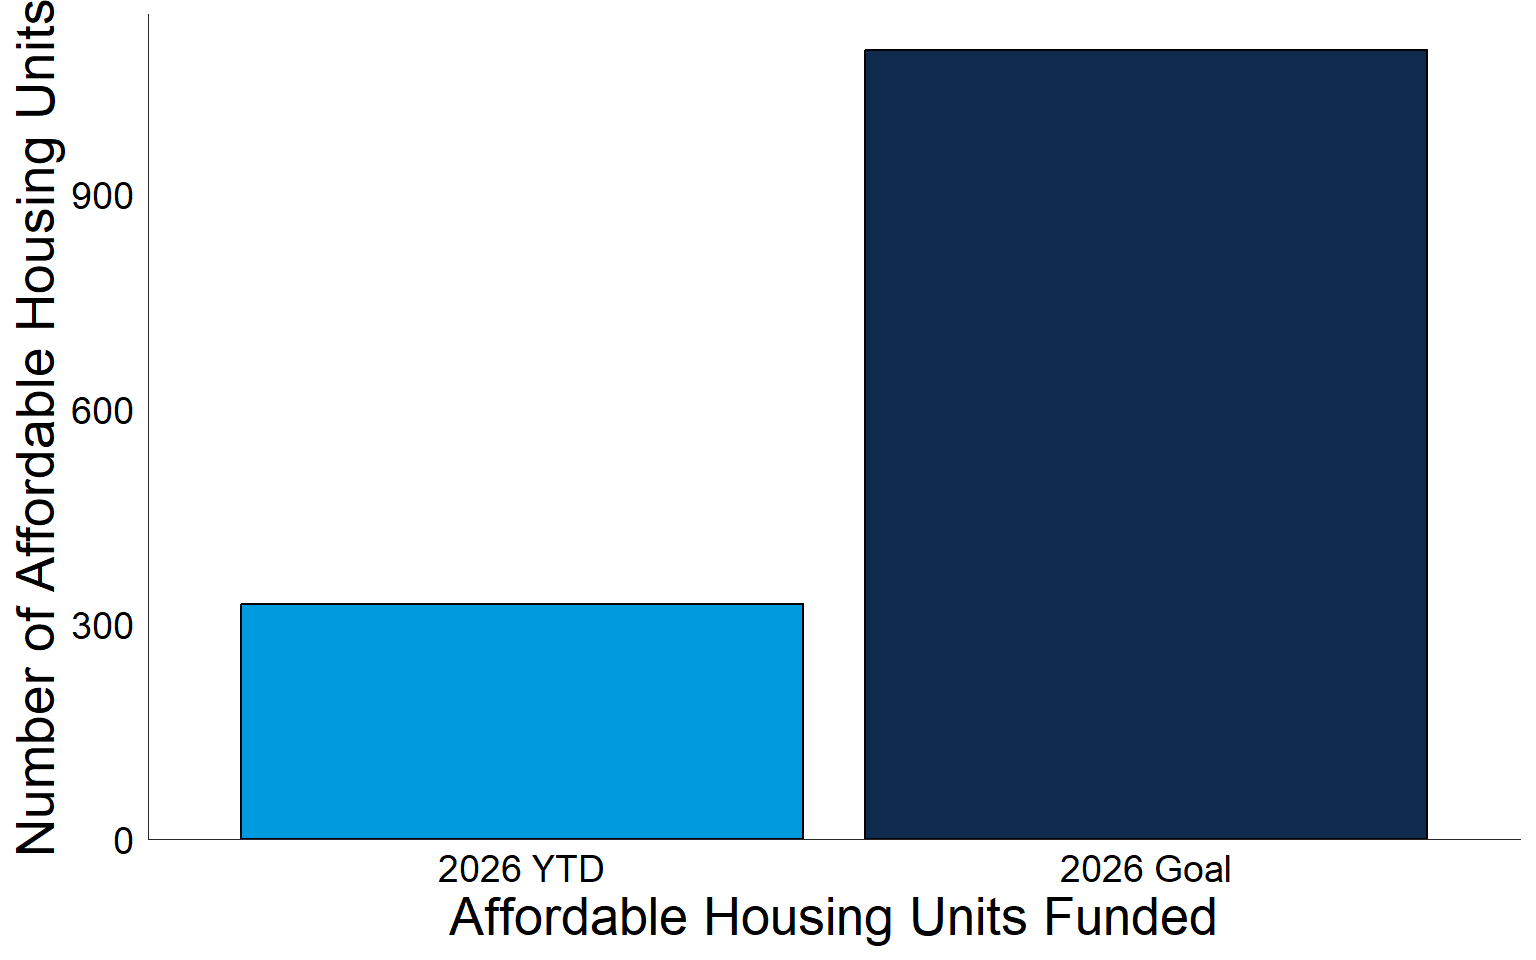
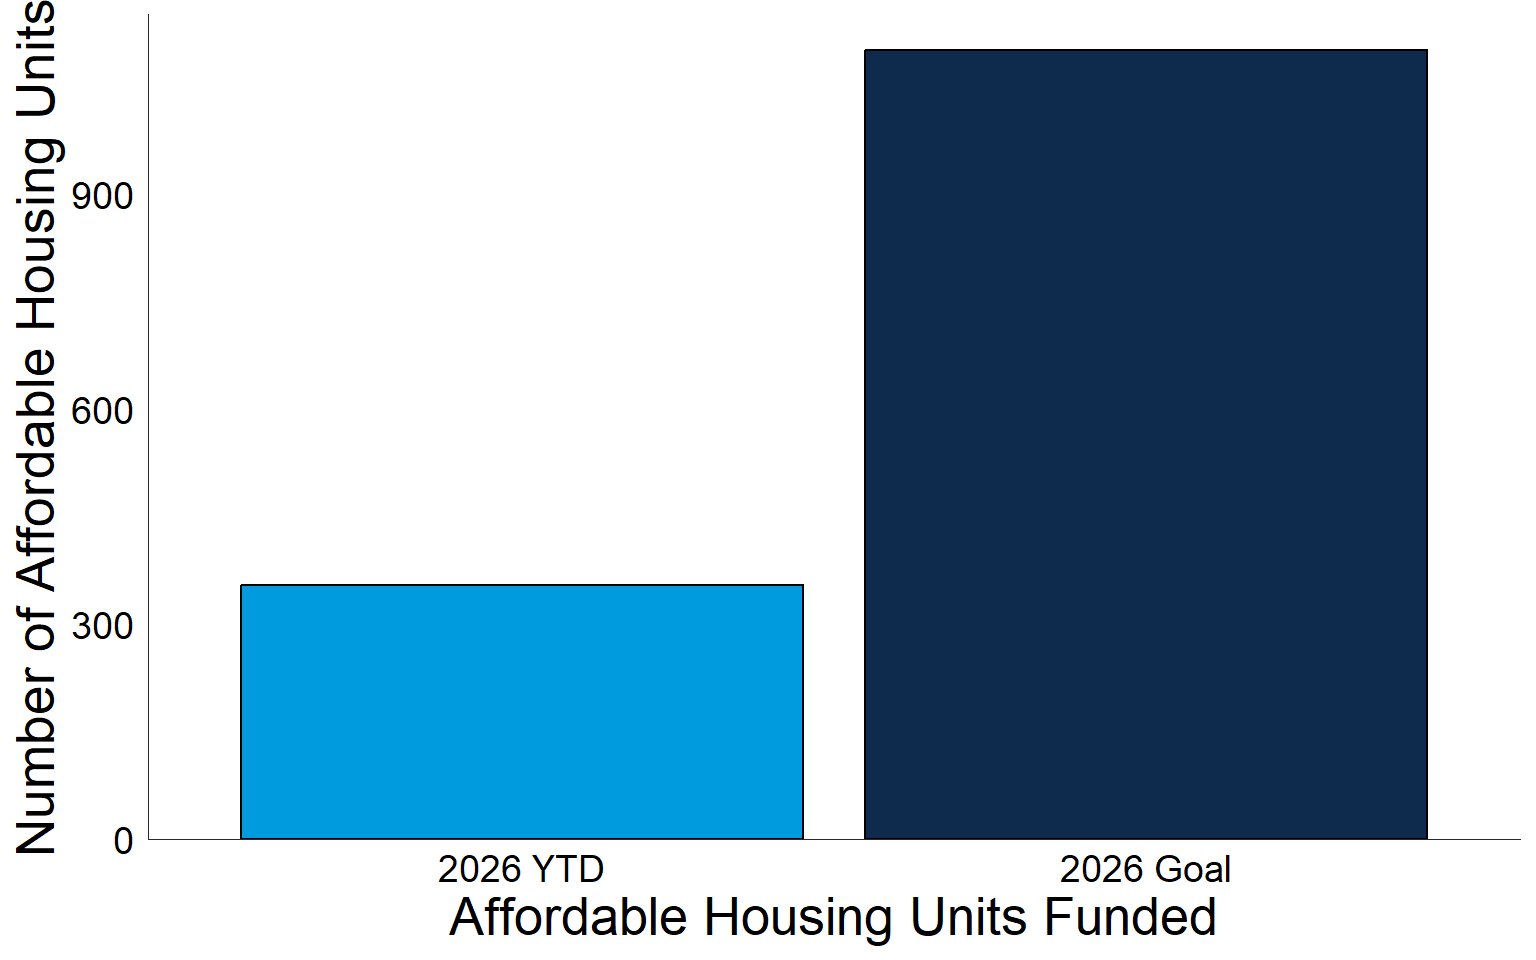
Built site for gh-pages

Changed region(s): [[0.1562, 0.5938, 0.5312, 0.6562]]

diff --git a/index.html b/index.html
@@ -89,7 +89,7 @@ grid-auto-rows: minmax(0, 1fr);">
 Total Capital Invested Across All Programs
 </p>
 <p class="value-box-value">
-$464.8 Million
+$478.9 Million
 </p>
 </div>
 </div>
@@ -105,7 +105,7 @@ $464.8 Million
 Total Economic Impact
 </p>
 <p class="value-box-value">
-$865.5 Million
+$1 Billion
 </p>
 </div>
 </div>
@@ -193,7 +193,7 @@ grid-auto-rows: minmax(0, 1fr);">
 Direct Investment
 </p>
 <p class="value-box-value">
-$2.0 Million
+$2.4 Million
 </p>
 </div>
 </div>
@@ -209,7 +209,7 @@ $2.0 Million
 Small Businesses Funded (Grants and Loans)
 </p>
 <p class="value-box-value">
-37
+49
 </p>
 </div>
 </div>
@@ -225,7 +225,7 @@ Small Businesses Funded (Grants and Loans)
 Small Businesses Receiving Business Consulting Services
 </p>
 <p class="value-box-value">
-564
+619
 </p>
 </div>
 </div>
@@ -241,7 +241,7 @@ Small Businesses Receiving Business Consulting Services
 Small Business Funded in Priority Neighborhoods
 </p>
 <p class="value-box-value">
-56.7%
+61.2%
 </p>
 </div>
 </div>
@@ -311,7 +311,7 @@ grid-auto-rows: minmax(0, 1fr);">
 Percentage of Projects in Priority Neighborhoods
 </p>
 <p class="value-box-value">
-58.3%
+59.7%
 </p>
 </div>
 </div>
@@ -327,7 +327,7 @@ Percentage of Projects in Priority Neighborhoods
 TAD Financing
 </p>
 <p class="value-box-value">
-$34.5 Million
+$37.6 Million
 </p>
 </div>
 </div>
@@ -343,7 +343,7 @@ $34.5 Million
 TAD Project Leveraged Capital
 </p>
 <p class="value-box-value">
-$88.1 Million
+$96.3 Million
 </p>
 </div>
 </div>
@@ -359,7 +359,7 @@ $88.1 Million
 Invest Atlanta Community Engagement Events
 </p>
 <p class="value-box-value">
-162
+177
 </p>
 </div>
 </div>
@@ -396,9 +396,9 @@ Community Engagement: Invest Atlanta Events
     <span class="bslib-full-screen-enter badge rounded-pill">
         <svg xmlns="http://www.w3.org/2000/svg" viewbox="0 0 24 24" style="height:1em;width:1em;" aria-hidden="true" role="img"><path d="M20 5C20 4.4 19.6 4 19 4H13C12.4 4 12 3.6 12 3C12 2.4 12.4 2 13 2H21C21.6 2 22 2.4 22 3V11C22 11.6 21.6 12 21 12C20.4 12 20 11.6 20 11V5ZM4 19C4 19.6 4.4 20 5 20H11C11.6 20 12 20.4 12 21C12 21.6 11.6 22 11 22H3C2.4 22 2 21.6 2 21V13C2 12.4 2.4 12 3 12C3.6 12 4 12.4 4 13V19Z"></path></svg>
     </span>
-</bslib-tooltip><script data-bslib-card-init="">bslib.Card.initializeAllCards();</script></div><div class="card cell html-fill-item html-fill-container bslib-card" data-title="Neighborhood Revitalization Project Types" data-bslib-card-init="" data-require-bs-caller="card()" data-full-screen="false">
+</bslib-tooltip><script data-bslib-card-init="">bslib.Card.initializeAllCards();</script></div><div class="card cell html-fill-item html-fill-container bslib-card" data-title="TAD Project Types" data-bslib-card-init="" data-require-bs-caller="card()" data-full-screen="false">
 <div class="card-header"><div class="card-title"><span style="display: inline">
-Neighborhood Revitalization Project Types
+TAD Project Types
 </span></div></div>
 <div class="card-body html-fill-item html-fill-container">
 <div class="cell-output-display html-fill-item html-fill-container">
@@ -429,7 +429,7 @@ grid-auto-rows: minmax(0, 1fr);">
 Direct Investment in Affordable Housing
 </p>
 <p class="value-box-value">
-$39.3 Million
+$41.8 Million
 </p>
 </div>
 </div>
@@ -445,7 +445,7 @@ $39.3 Million
 Total Capital Investment in Affordable Housing
 </p>
 <p class="value-box-value">
-$134.9 Million
+$145.5 Million
 </p>
 </div>
 </div>
@@ -461,7 +461,7 @@ $134.9 Million
 Total Affordable Housing Units Financed
 </p>
 <p class="value-box-value">
-328
+354
 </p>
 </div>
 </div>
@@ -477,7 +477,7 @@ Total Affordable Housing Units Financed
 Homeownership Incentives (Down Payment, Home Rehab, Tax Relief)
 </p>
 <p class="value-box-value">
-135
+119
 </p>
 </div>
 </div>
@@ -547,7 +547,7 @@ grid-auto-rows: minmax(0, 1fr);">
 Total Capital Investment (Jobs &amp; Employment)
 </p>
 <p class="value-box-value">
-$127.0 Million
+$127.1 Million
 </p>
 </div>
 </div>
@@ -563,7 +563,7 @@ $127.0 Million
 Total Jobs Impact
 </p>
 <p class="value-box-value">
-1,602
+1,773
 </p>
 </div>
 </div>
@@ -579,7 +579,7 @@ Total Jobs Impact
 Business Development Projects
 </p>
 <p class="value-box-value">
-28
+31
 </p>
 </div>
 </div>
@@ -595,7 +595,7 @@ Business Development Projects
 Total Economic Impact (Jobs &amp; Employment)
 </p>
 <p class="value-box-value">
-$720.2 Million
+$730 Million
 </p>
 </div>
 </div>
